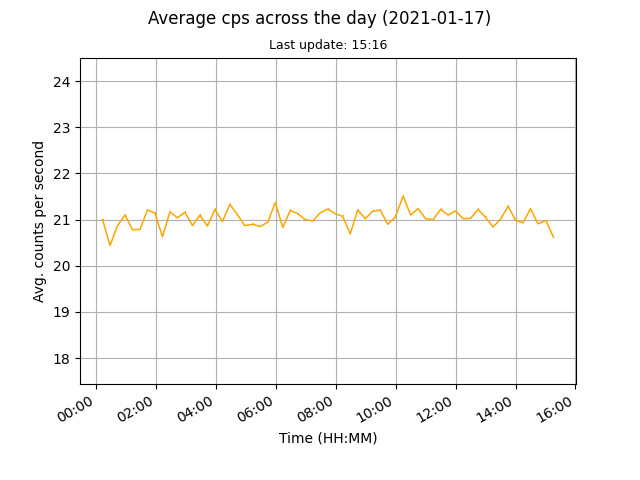
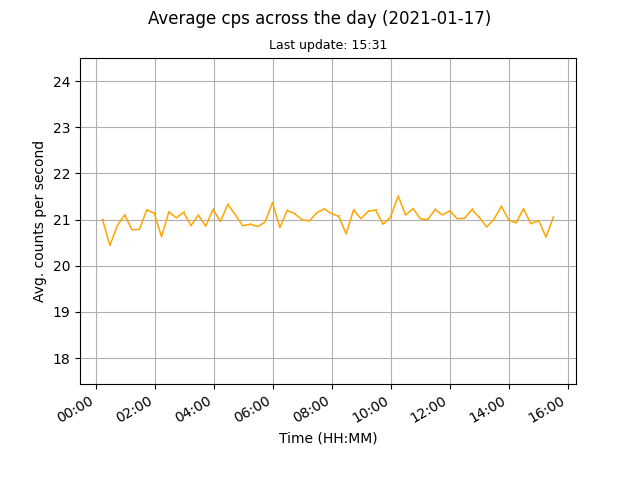
auto data update

diff --git a/docs/index.html b/docs/index.html
@@ -45,8 +45,8 @@
 	
 	<br>
 	
-	<p>Current counts per second (cps): 20.62</p>
-	<p>Last update: 2021-01-17, 15:16</p>
+	<p>Current counts per second (cps): 21.06</p>
+	<p>Last update: 2021-01-17, 15:31</p>
 
 	<p><a href="images/monthly.png"><img src="images/monthly.png" alt="Mothly avg cps data"></a><a href="images/daily.png"><img src="images/daily.png" alt="Daily avg cps data"></a></p>
 	
